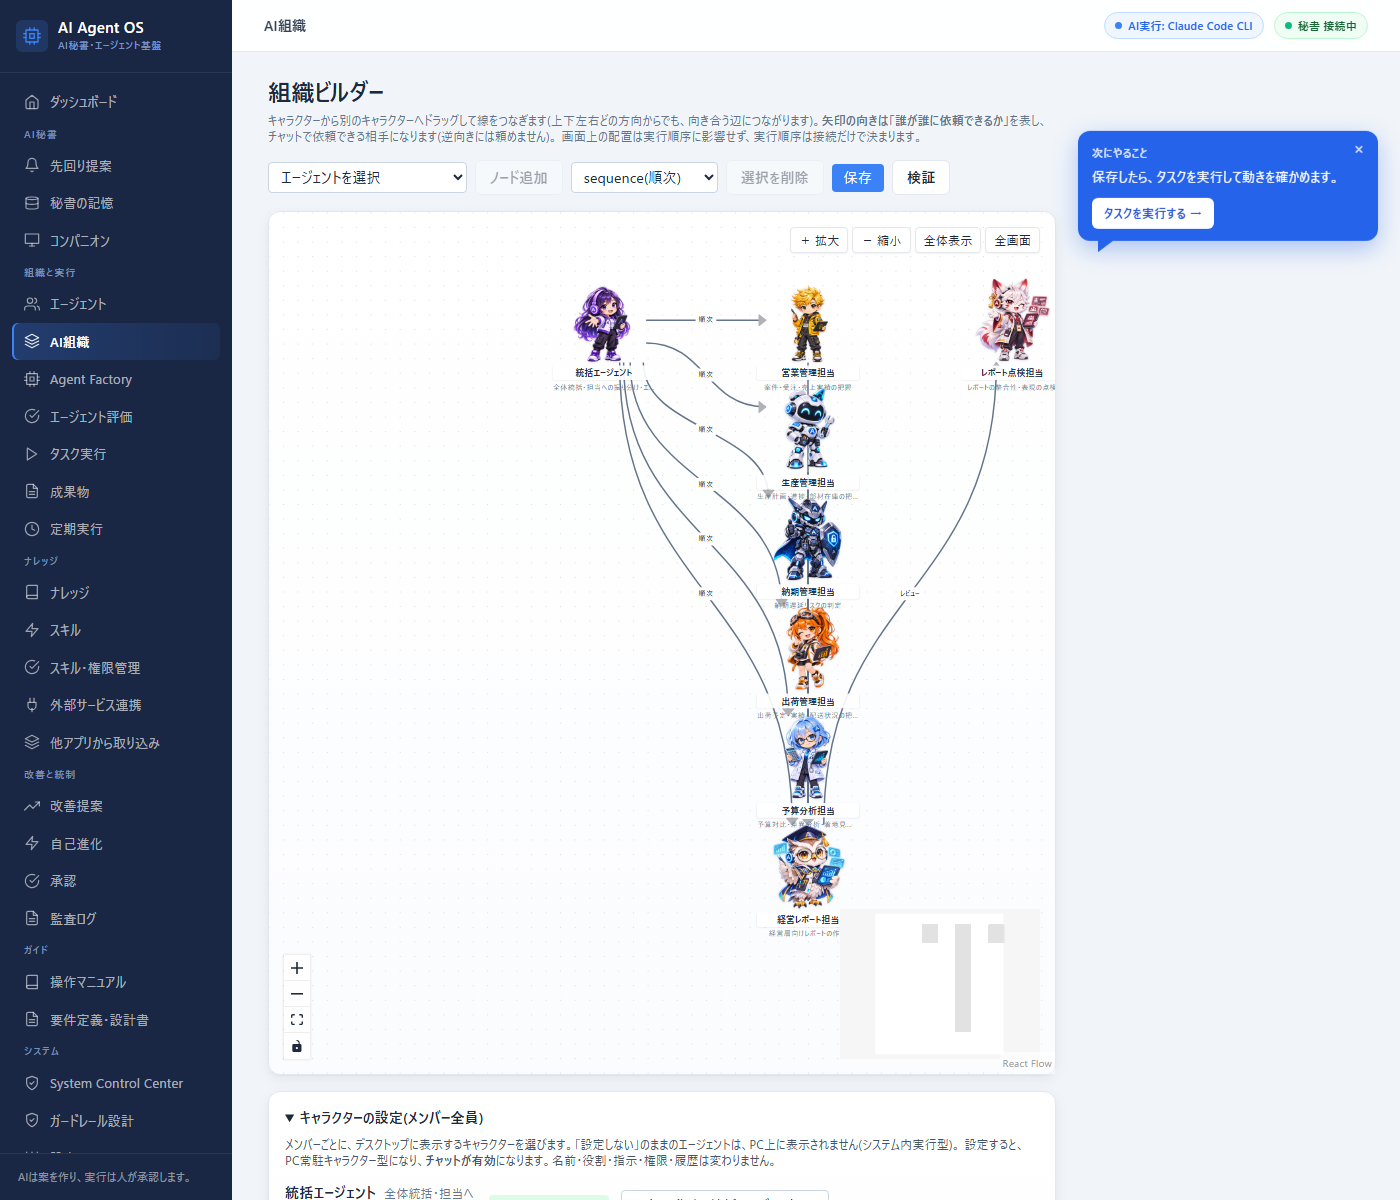
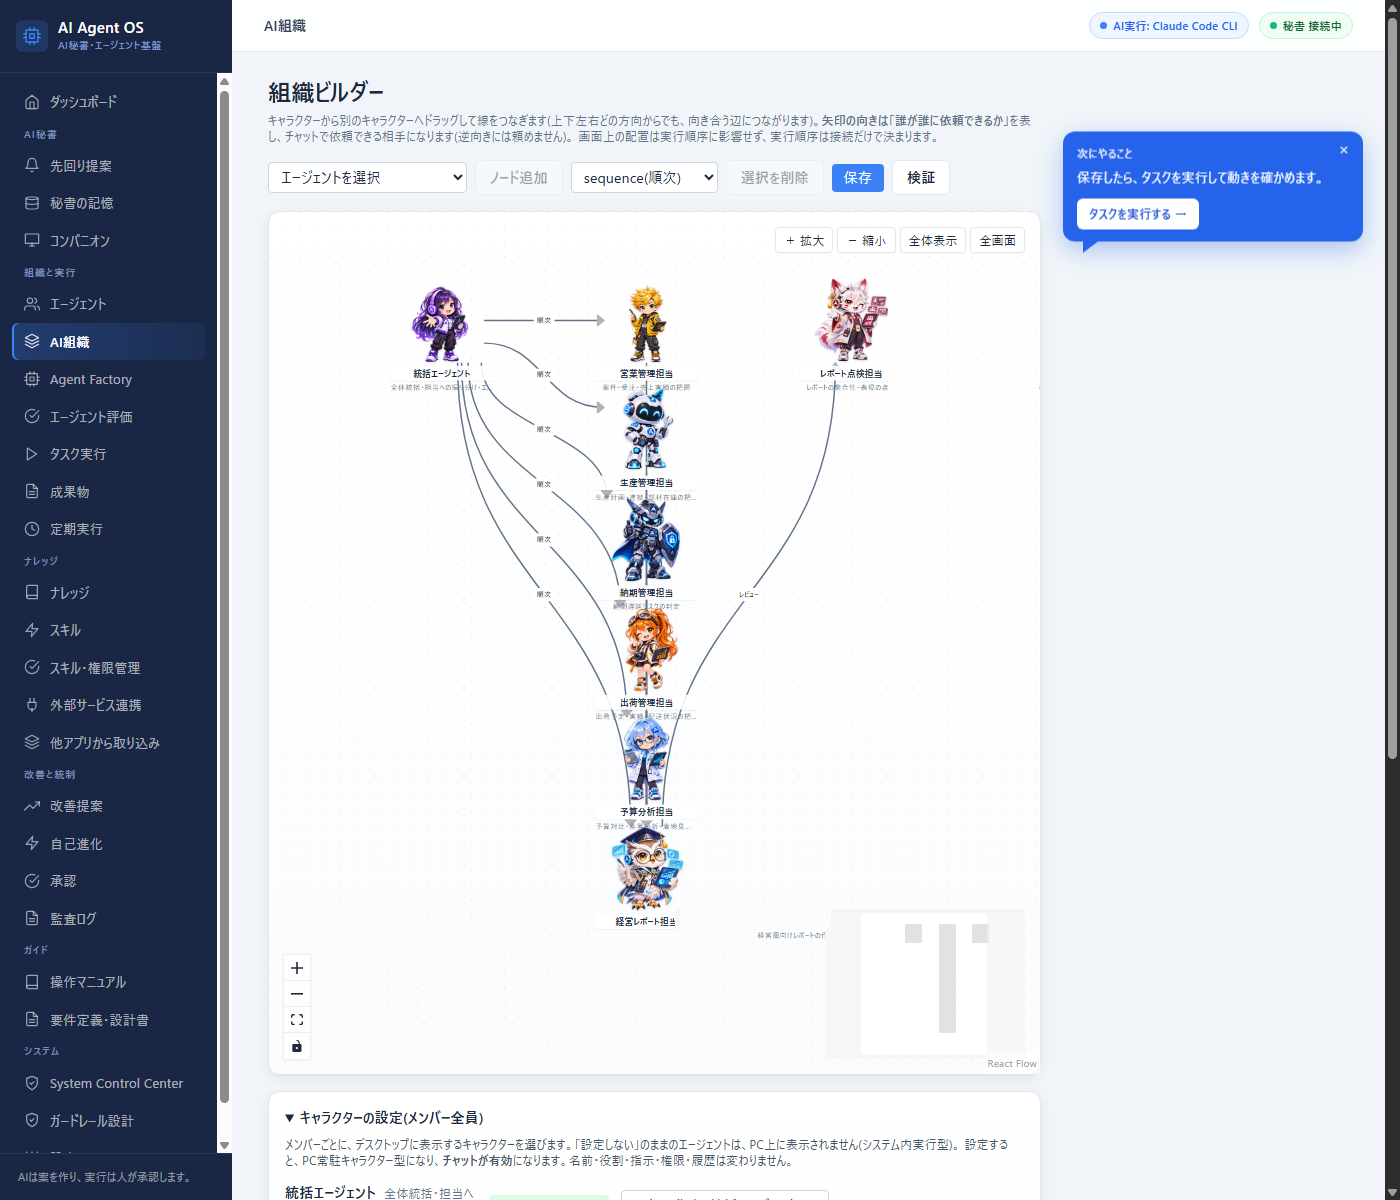
ai-agent-os.htmlを5点修正(余白埋め・ヒーロー画像位置・競合比較・組織図の偏り・全体構成)
- 「慎重になる理由」に3項目追加し、グリッドの中途半端な余白を解消
- ヒーローのデスクトップ画像をalign-items:centerで縦方向に中央寄せ
- 「AI Agent OSで実現できること」に、Grok Bot/Dotsなど他の自律型AIエージェントとの違い(設計思想の比較)を追加
- 組織ビルダーのスクリーンショットを実機で再検証・再構成し、右に偏っていた図を中央寄せに修正
- 「7つの領域」の説明を課題セクション直後の独立セクションに移動し、以降の内容がこの7領域に沿う構成に変更

diff --git a/ai-agent-os.html b/ai-agent-os.html
@@ -83,7 +83,7 @@ img{max-width:100%}
 .hero::before{content:'';position:absolute;top:-160px;right:-180px;width:560px;height:560px;border-radius:50%;background:radial-gradient(circle,rgba(67,56,202,.11) 0%,rgba(67,56,202,0) 70%);pointer-events:none;z-index:0}
 .hero-dotgrid{position:absolute;top:0;left:0;width:240px;height:240px;background-image:radial-gradient(rgba(67,56,202,.35) 1.6px,transparent 1.6px);background-size:16px 16px;-webkit-mask-image:radial-gradient(circle at top left,#000 35%,transparent 78%);mask-image:radial-gradient(circle at top left,#000 35%,transparent 78%);pointer-events:none;z-index:0}
 .hero-watermark{position:absolute;right:-30px;bottom:-30px;width:280px;height:auto;opacity:.06;z-index:0;pointer-events:none}
-.hero-grid{position:relative;z-index:1;display:grid;grid-template-columns:1fr 1.15fr;gap:56px;align-items:start;padding-bottom:56px}
+.hero-grid{position:relative;z-index:1;display:grid;grid-template-columns:1fr 1.15fr;gap:56px;align-items:center;padding-bottom:56px}
 .hero-copy,.hero-visual{min-width:0}
 .hero-tag{display:inline-flex;align-items:center;gap:7px;font-size:12px;font-weight:700;color:var(--accent-dark);background:#fff;border:1px solid var(--line);padding:7px 18px;border-radius:24px;margin-bottom:24px;letter-spacing:.04em;box-shadow:0 2px 10px rgba(30,27,75,.06)}
 .hero-wordmark{font-size:clamp(28px,4vw,50px);font-weight:900;letter-spacing:-.01em;line-height:1.05;margin-bottom:16px}
@@ -228,7 +228,7 @@ img{max-width:100%}
     <div class="header-links" id="headerLinks">
       <a href="https://shikou-ai.com/index.html">トップ</a>
       <a href="#background">課題</a>
-      <a href="#architecture">仕組み</a>
+      <a href="#domains">仕組み</a>
       <a href="#features">機能</a>
       <a href="#security">セキュリティ</a>
       <a href="#faq">FAQ</a>
@@ -255,7 +255,7 @@ img{max-width:100%}
       </div>
       <div class="hero-btns">
         <a href="https://shikou-ai.com/contact.html" class="btn btn-primary">無料で相談する</a>
-        <a href="#architecture" class="btn btn-ghost">仕組みを見る</a>
+        <a href="#domains" class="btn btn-ghost">仕組みを見る</a>
       </div>
     </div>
     <div class="hero-visual">
@@ -301,11 +301,74 @@ img{max-width:100%}
         <div class="phase-d">トラブル時の対応が不安、企業としてのサポートが限定的。</div>
         <div class="phase-tag">→ 導入・カスタマイズを個別にご相談いただける体制（スポット開発支援／業務委託支援）</div>
       </div>
+      <div class="phase-item">
+        <div class="phase-n">06</div>
+        <div class="phase-t">エージェントの誤動作・暴走への不安</div>
+        <div class="phase-d">想定外の操作をしてしまうのでは、という懸念。</div>
+        <div class="phase-tag">→ 評価に合格し、人が承認するまで本番稼働しない設計。不合格のエージェントは本番登録を要求できない</div>
+      </div>
+      <div class="phase-item">
+        <div class="phase-n">07</div>
+        <div class="phase-t">既存システムとの連携の複雑さ</div>
+        <div class="phase-d">社内のツールやサービスとどうつながるのか分からない。</div>
+        <div class="phase-tag">→ Gmail・カレンダー・ドライブ・GitHub・Slack・Notion・Dropbox・Web検索に対応（読み取り専用・承認制）</div>
+      </div>
+      <div class="phase-item">
+        <div class="phase-n">08</div>
+        <div class="phase-t">特定のAIベンダーへの依存（ロックイン）</div>
+        <div class="phase-d">1社のAIモデル次第で、運用が左右されてしまうことへの懸念。</div>
+        <div class="phase-tag">→ 実行エンジンはClaude Code CLIとMicrosoft 365 Copilotから選択可能。他社AIモデルへの対応拡大も構想中</div>
+      </div>
     </div>
   </div>
 </section>
 
-<section class="section" id="about-name">
+<section class="section" id="domains">
+  <div class="wrap">
+    <div class="sec-tag">OVERVIEW</div>
+    <h2 class="sec-title">7つの領域で、AI組織を設計・構築・運用・改善する</h2>
+    <p class="sec-lead">AI Agent OSは、以下7つの領域を1つの基盤として統合しています。このページも、この7つの領域に沿って機能を紹介していきます。</p>
+    <div class="phase">
+      <div class="phase-item">
+        <div class="phase-n">01</div>
+        <div class="phase-t">ソリューション設計・アーキテクチャ</div>
+        <div class="phase-d">AI組織設計・エージェント構成・ワークフロー設計。Agent Factory（自然言語での組織提案）と組織ビルダー（ドラッグ&ドロップでの設計）を提供。</div>
+      </div>
+      <div class="phase-item">
+        <div class="phase-n">02</div>
+        <div class="phase-t">AIモデル・プロンプト・コンテキスト管理</div>
+        <div class="phase-d">実行エンジンはClaude Code CLIとMicrosoft 365 Copilotの2つに対応（設定画面で切替可）。ナレッジ・スキルの割り当ても、この領域で管理する。ローカルLLMは画面上の予約枠で、現時点では未提供。</div>
+      </div>
+      <div class="phase-item">
+        <div class="phase-n">03</div>
+        <div class="phase-t">外部システム連携</div>
+        <div class="phase-d">Gmail・カレンダー・ドライブ・GitHub・Slack・Notion・Dropbox・Web検索に対応（読み取り専用・エージェントごとの承認制）。</div>
+      </div>
+      <div class="phase-item">
+        <div class="phase-n">04</div>
+        <div class="phase-t">評価・テスト・最適化</div>
+        <div class="phase-d">定義・権限・コストの検査と、隔離した試験実行をプログラムが判定するエージェント評価。実行履歴・構成分析にもとづく改善提案。</div>
+      </div>
+      <div class="phase-item">
+        <div class="phase-n">05</div>
+        <div class="phase-t">AIガバナンス・セキュリティ</div>
+        <div class="phase-d">人の確認が必要な操作は承認制とし、誰が・いつ・何をしたかを監査ログに記録（秘密情報らしき文字列は自動で伏せる）。</div>
+      </div>
+      <div class="phase-item">
+        <div class="phase-n">06</div>
+        <div class="phase-t">ステークホルダー・ライフサイクル管理</div>
+        <div class="phase-d">文書をナレッジとして登録・エージェントへ割り当て、承認を経て運用。改善提案は差分を確認して承認・適用し、いつでも元のバージョンへ戻せる。</div>
+      </div>
+      <div class="phase-item span-2">
+        <div class="phase-n">07</div>
+        <div class="phase-t">開発生産性・運用支援</div>
+        <div class="phase-d">単体/結合テスト151件・E2E16シナリオで継続的に検証しながら開発。PCコンパニオンから、日常的な依頼を直接実行エンジンへ渡せる。</div>
+      </div>
+    </div>
+  </div>
+</section>
+
+<section class="section alt" id="about-name">
   <div class="wrap">
     <div class="sec-tag">ABOUT</div>
     <h2 class="sec-title">AI Agent OSとは</h2>
@@ -342,10 +405,36 @@ img{max-width:100%}
         <div class="svc-role">評価と改善提案のサイクルで、AI組織を育てていく</div>
       </div>
     </div>
+
+    <h3 style="font-size:19px;font-weight:900;margin:34px 0 4px">他の自律型AIエージェントとの違い</h3>
+    <p class="prose">Grok Bot（xAI）やDots（OpenAI）など、目的と制約を伝えると常時稼働で自律的にタスクを進め続けるAIエージェントが、各社から登場しています。AI Agent OSも同じ「AIエージェント」ですが、スピードよりも「人が確認してから進める」ことを優先した設計です。</p>
+    <div class="svc-list" style="margin-top:20px">
+      <div class="svc-row">
+        <div class="svc-layer">実行前</div>
+        <div class="svc-name">評価に合格するまで本番稼働しない</div>
+        <div class="svc-role">生成したエージェントは、定義・権限・コストの検査と試験実行に合格し、人が承認して初めて動く</div>
+      </div>
+      <div class="svc-row">
+        <div class="svc-layer">外部接続</div>
+        <div class="svc-name">読み取り専用・承認制</div>
+        <div class="svc-role">メール・カレンダー等の外部連携は読み取り専用。書き込み系ツールの有効化には人の承認が必要</div>
+      </div>
+      <div class="svc-row">
+        <div class="svc-layer">改善</div>
+        <div class="svc-name">差分承認・ロールバック可</div>
+        <div class="svc-role">AIが出す改善提案も、差分を確認して承認してから適用。合わなければ元のバージョンへ戻せる</div>
+      </div>
+      <div class="svc-row">
+        <div class="svc-layer">記録</div>
+        <div class="svc-name">操作を監査ログに記録</div>
+        <div class="svc-role">誰が・いつ・何をしたかを記録し、秘密情報らしき文字列は自動的に伏せて保存</div>
+      </div>
+    </div>
+    <p class="prose" style="margin-top:14px">どちらが優れているというより、設計思想の違いです。社内の業務で使う以上、スピードよりも「間違いに早く気づけること」「差し戻せること」を優先しました。</p>
   </div>
 </section>
 
-<section class="section alt" id="background">
+<section class="section" id="background">
   <div class="wrap">
     <div class="sec-tag">BACKGROUND</div>
     <h2 class="sec-title">1つのAIチャットに、業務が集中していませんか</h2>
@@ -427,46 +516,6 @@ img{max-width:100%}
     <p class="sec-lead">キャラクター（エージェント）同士をドラッグでつなぐだけで、誰が誰に依頼できるかという組織構造を作れます。矢印の向きが依頼できる方向です。実行順序は、この接続だけで決まります。</p>
     <img src="fig_agentos_org_builder.png" alt="AI Agent OSの組織ビルダー画面。統括エージェントを起点に、営業管理担当・生産管理担当・納期管理担当・出荷管理担当・予算分析担当・経営レポート担当・レポート点検担当のキャラクターが矢印でつながり、依頼できる方向を表している" class="fig" loading="lazy" width="1400" height="1200">
     <p class="fig-cap">実際の組織ビルダー画面（製造業向けデモ組織）。依頼の流れがそのまま実行順序になる</p>
-
-    <h3 style="font-size:19px;font-weight:900;margin:34px 0 12px">7つの領域で、AI組織を設計・構築・運用・改善する</h3>
-    <p class="prose" style="margin-bottom:8px">AI Agent OSは、以下7つの領域を1つの基盤として統合しています。それぞれの実体は、下の「主な機能」で実際の画面とあわせて確認できます。</p>
-    <div class="phase">
-      <div class="phase-item">
-        <div class="phase-n">01</div>
-        <div class="phase-t">ソリューション設計・アーキテクチャ</div>
-        <div class="phase-d">AI組織設計・エージェント構成・ワークフロー設計。Agent Factory（自然言語での組織提案）と組織ビルダー（ドラッグ&ドロップでの設計）を提供。</div>
-      </div>
-      <div class="phase-item">
-        <div class="phase-n">02</div>
-        <div class="phase-t">AIモデル・プロンプト・コンテキスト管理</div>
-        <div class="phase-d">実行エンジンはClaude Code CLIとMicrosoft 365 Copilotの2つに対応（設定画面で切替可）。ナレッジ・スキルの割り当ても、この領域で管理する。ローカルLLMは画面上の予約枠で、現時点では未提供。</div>
-      </div>
-      <div class="phase-item">
-        <div class="phase-n">03</div>
-        <div class="phase-t">外部システム連携</div>
-        <div class="phase-d">Gmail・カレンダー・ドライブ・GitHub・Slack・Notion・Dropbox・Web検索に対応（読み取り専用・エージェントごとの承認制）。</div>
-      </div>
-      <div class="phase-item">
-        <div class="phase-n">04</div>
-        <div class="phase-t">評価・テスト・最適化</div>
-        <div class="phase-d">定義・権限・コストの検査と、隔離した試験実行をプログラムが判定するエージェント評価。実行履歴・構成分析にもとづく改善提案。</div>
-      </div>
-      <div class="phase-item">
-        <div class="phase-n">05</div>
-        <div class="phase-t">AIガバナンス・セキュリティ</div>
-        <div class="phase-d">人の確認が必要な操作は承認制とし、誰が・いつ・何をしたかを監査ログに記録（秘密情報らしき文字列は自動で伏せる）。</div>
-      </div>
-      <div class="phase-item">
-        <div class="phase-n">06</div>
-        <div class="phase-t">ステークホルダー・ライフサイクル管理</div>
-        <div class="phase-d">文書をナレッジとして登録・エージェントへ割り当て、承認を経て運用。改善提案は差分を確認して承認・適用し、いつでも元のバージョンへ戻せる。</div>
-      </div>
-      <div class="phase-item">
-        <div class="phase-n">07</div>
-        <div class="phase-t">開発生産性・運用支援</div>
-        <div class="phase-d">単体/結合テスト151件・E2E16シナリオで継続的に検証しながら開発。PCコンパニオンから、日常的な依頼を直接実行エンジンへ渡せる。</div>
-      </div>
-    </div>
   </div>
 </section>
 
